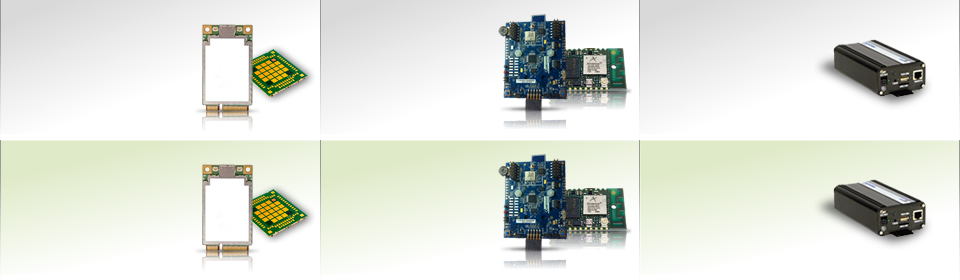
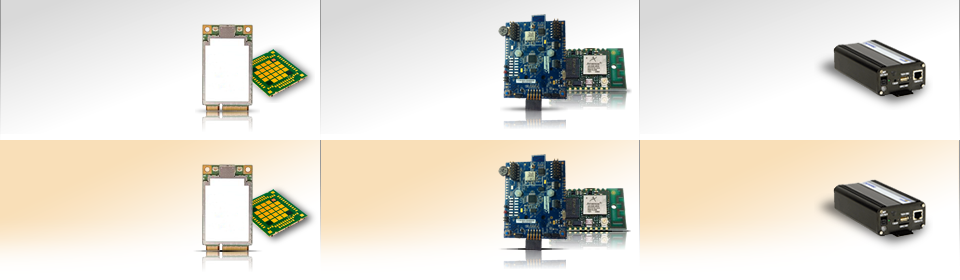
updates to orange style

diff --git a/sites/all/themes/m2m2/css/styles.css b/sites/all/themes/m2m2/css/styles.css
@@ -60,7 +60,7 @@ a img {
 
 a:link,
 a:visited {
-  color: #6ea202;
+  color: #FF8200;
   text-decoration: none;
 }
 a:hover {
@@ -145,7 +145,7 @@ a:hover {
 }
 .ui-multiselect-menu .ui-multiselect-checkboxes li label.ui-state-hover {
   border: 1px solid #686868;
-  color:#6ea304;
+  color:#FF8200;
   font-weight: bold;
 }
 .views-exposed-form .views-submit-button {
@@ -332,7 +332,7 @@ body.page-routersearch #block-menu-primary-links ul.menu li a.item_wireless:visi
   color:#ccc;
 }
 #block-menu-secondary-links ul.menu li.active-trail a.active  {
-  color: #6ea202;
+  color: #FF8200;
 }
 
 /*search */
@@ -345,16 +345,16 @@ body.page-routersearch #block-menu-primary-links ul.menu li a.item_wireless:visi
   margin: 0;
 }
 #block-search-0 .form-item label  {
-  color:#fff;
+  color:#000;
   font-weight: normal;
   padding: 4px 0 0 7px;
 }
 #block-search-0 .form-text {
-  border: 1px solid #414141;
+  border: 1px solid #515151;
   padding: 5px;
   font-size: 13px;
   font-family: arial, helvetica, sans-serif;
-  color:#fff;
+  color:#000;
   width: 244px;
   height: 16px;
   background: url(../images/bg_search.png) no-repeat;
@@ -474,7 +474,7 @@ ul.secondary li.active a:hover {
 }
 .sidebar ul.menu li a.active:link,
 .sidebar ul.menu li a.active:visited {
-  color:#6ea202;
+  color:#FF8200;
 }
 /* content */
 #content_top  {
@@ -628,7 +628,7 @@ body.page-routers {}
   font-size: 32px;
   line-height: 40px;
   margin: 0 0 10px;
-  color:#6ea304;
+  color:#FF8200;
 }
 .banner-text {
   font-size: 13px;
@@ -755,7 +755,7 @@ body.page-routersearch #block-views-featured_routers-block {
 #block-block-9  {
   float: left;
   width: 690px;
-  background: #6da101 url(../images/bg_subhead_green.png) repeat-x;
+  background: #FF8200 url(../images/bg_subhead_green.png) repeat-x;
   font-size: 18px;
   font-weight: normal;
   height: 56px;
@@ -807,7 +807,7 @@ body.page-routersearch #block-views-featured_routers-block {
   padding: 0;
 }
 .views-exposed-form .views-exposed-widget label {
-  color: #6ea202;
+  color: #FF8200;
   font-size: 13px;
   text-transform: uppercase;
 }
@@ -861,7 +861,7 @@ body.page-featured #main_content .block-views {
   filter: progid:DXImageTransform.Microsoft.Shadow(Strength=4, Direction=0, Color='#999999');
 }
 body.page-featured #main_content .block-views h2  {
-  background: #6da101 url(../images/bg_subhead_green.png) repeat-x;
+  background: #FF8200 url(../images/bg_subhead_green.png) repeat-x;
   font-size: 18px;
   font-weight: normal;
   height: 56px;
@@ -925,7 +925,7 @@ body.page-routersearch .view-router-search {
 }
 .view-Search .view-header,
 .view-router-search .view-header {
-  background: #6da101 url(../images/bg_subhead_green.png) repeat-x;
+  background: #FF8200 url(../images/bg_subhead_green.png) repeat-x;
   font-size: 18px;
   font-weight: normal;
   height: 56px;
@@ -1017,7 +1017,7 @@ body.page-routersearch .view-router-search {
   -moz-border-radius-bottomleft: 0px;
   -webkit-border-radius: 5px 5px 0px 0px;
   border-radius: 5px 5px 0px 0px;
-  color:#6da101;
+  color:#FF8200;
 }
 .view-display-mode-tabs a.list-view.active {
   background: #fff url(../images/icon_list.png) no-repeat 15px -37px;
@@ -1111,7 +1111,7 @@ body.page-routersearch .view-router-search {
 .view-connectivity-search .view-content .views-row label {
   display: block;
   margin: 0 0 3px;
-  color:#6EA202;
+  color:#FF8200;
   font-weight: bold;
   font-size: 14px;
 }
@@ -1151,7 +1151,7 @@ body.page-routersearch .view-router-search {
 .view-router-search .view-content table.views-view-grid td label,
 .view-connectivity-search .view-content table.views-view-grid td label,
 .view-featured-products .view-content table.views-view-grid td label {
-  color:#6da101;
+  color:#FF8200;
   font-weight: bold;
   display: inline-block;
 }
@@ -1280,7 +1280,7 @@ body.page-routersearch .view-router-search {
   right: 10px;
 }
 .item-list ul.pager li.pager-current {
-  color: #6EA202;
+  color: #FF8200;
 }
 
 div.view-manage-devices .item-list ul.pager {
@@ -1579,7 +1579,7 @@ div.view-router-search div.attachment-after {
   font-size: 36px;
   line-height: 36px;/*
   font-family: "Gotham Rounded", Arial, Sans-serif;*/
-  color:#6da304;
+  color:#FF8200;
   z-index: 50;
   width: 430px;
   padding: 60px 0 20px;
